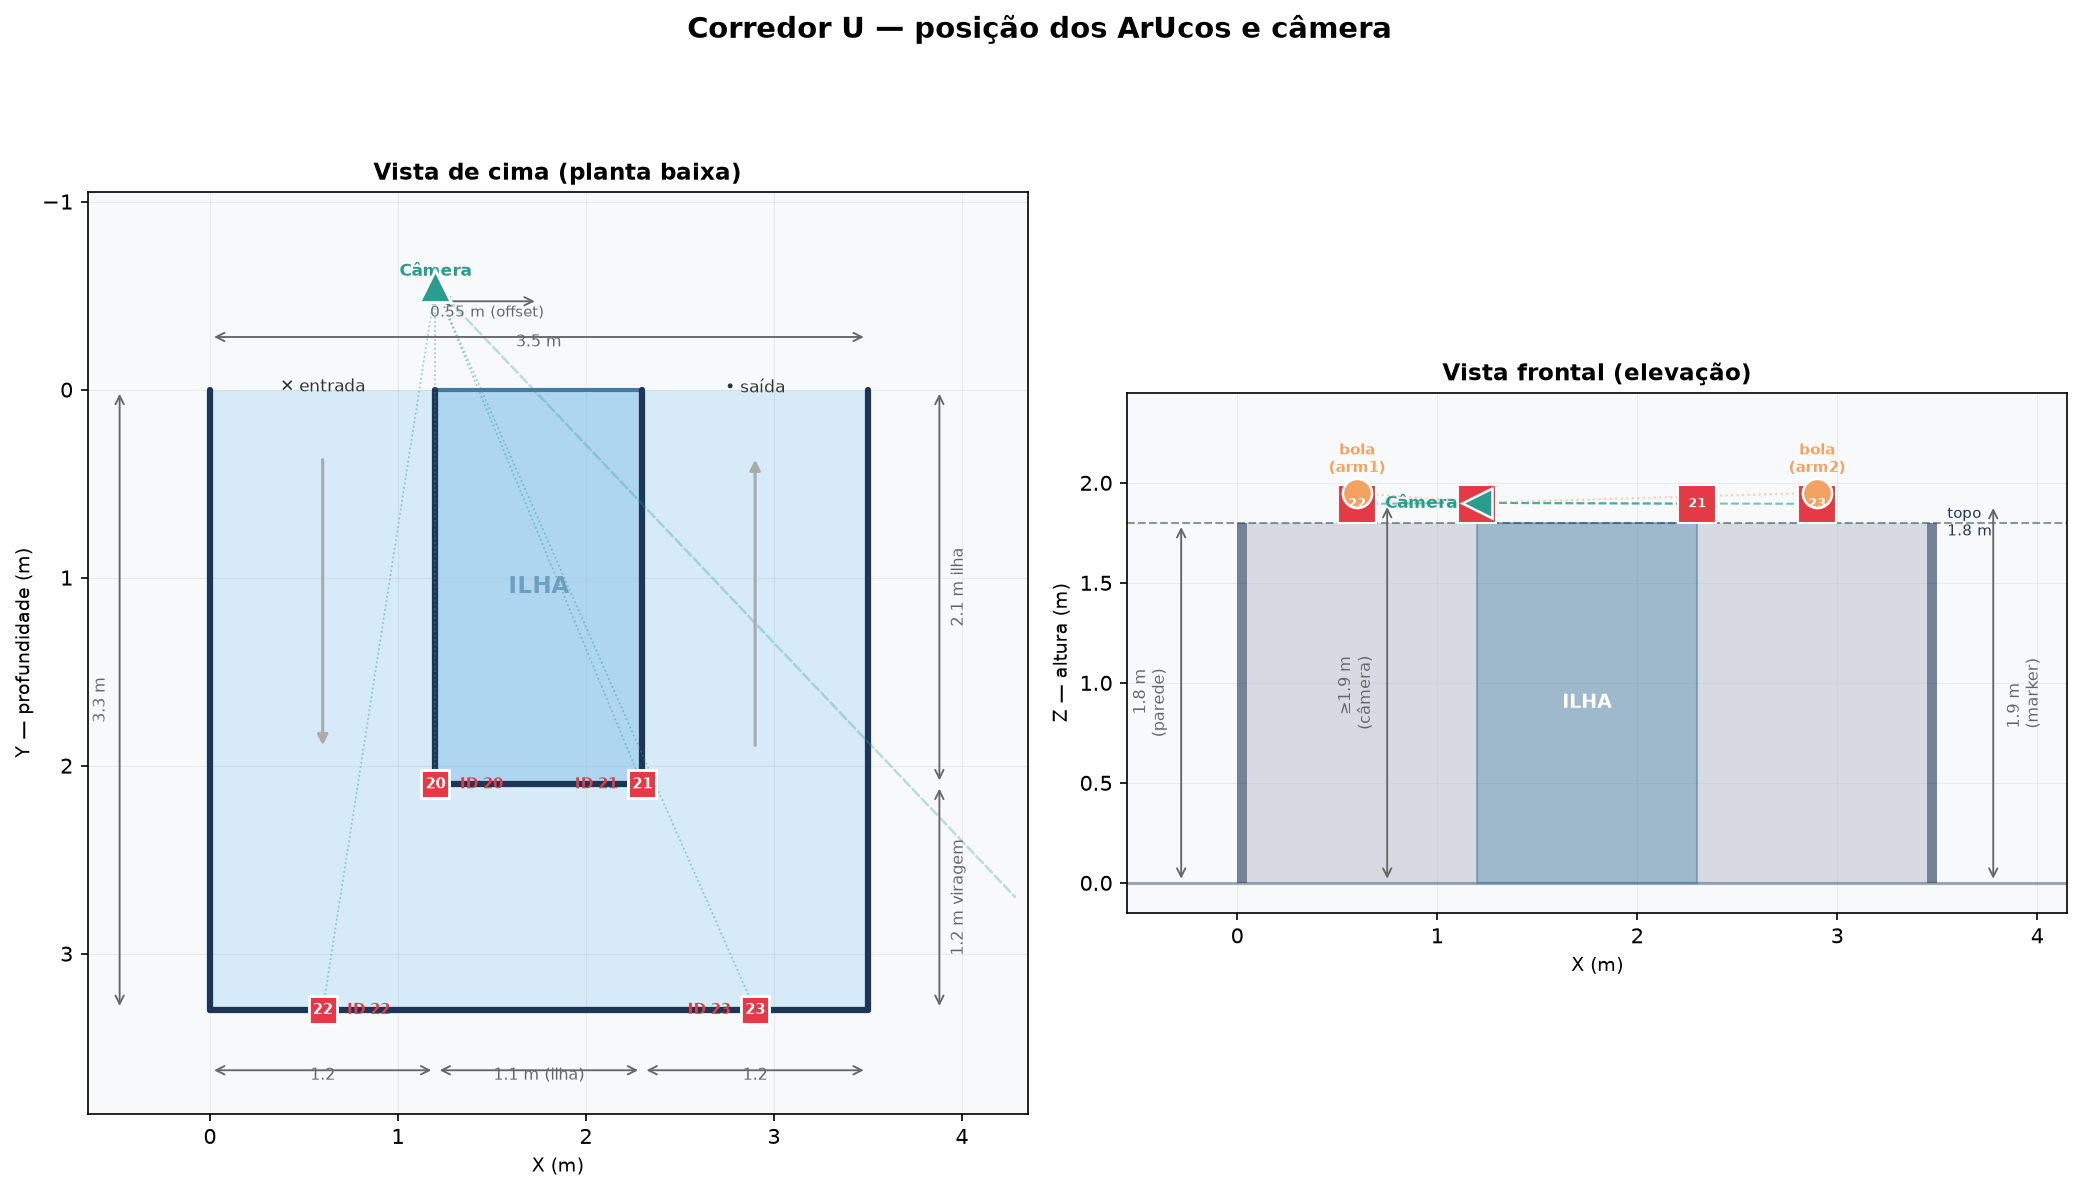
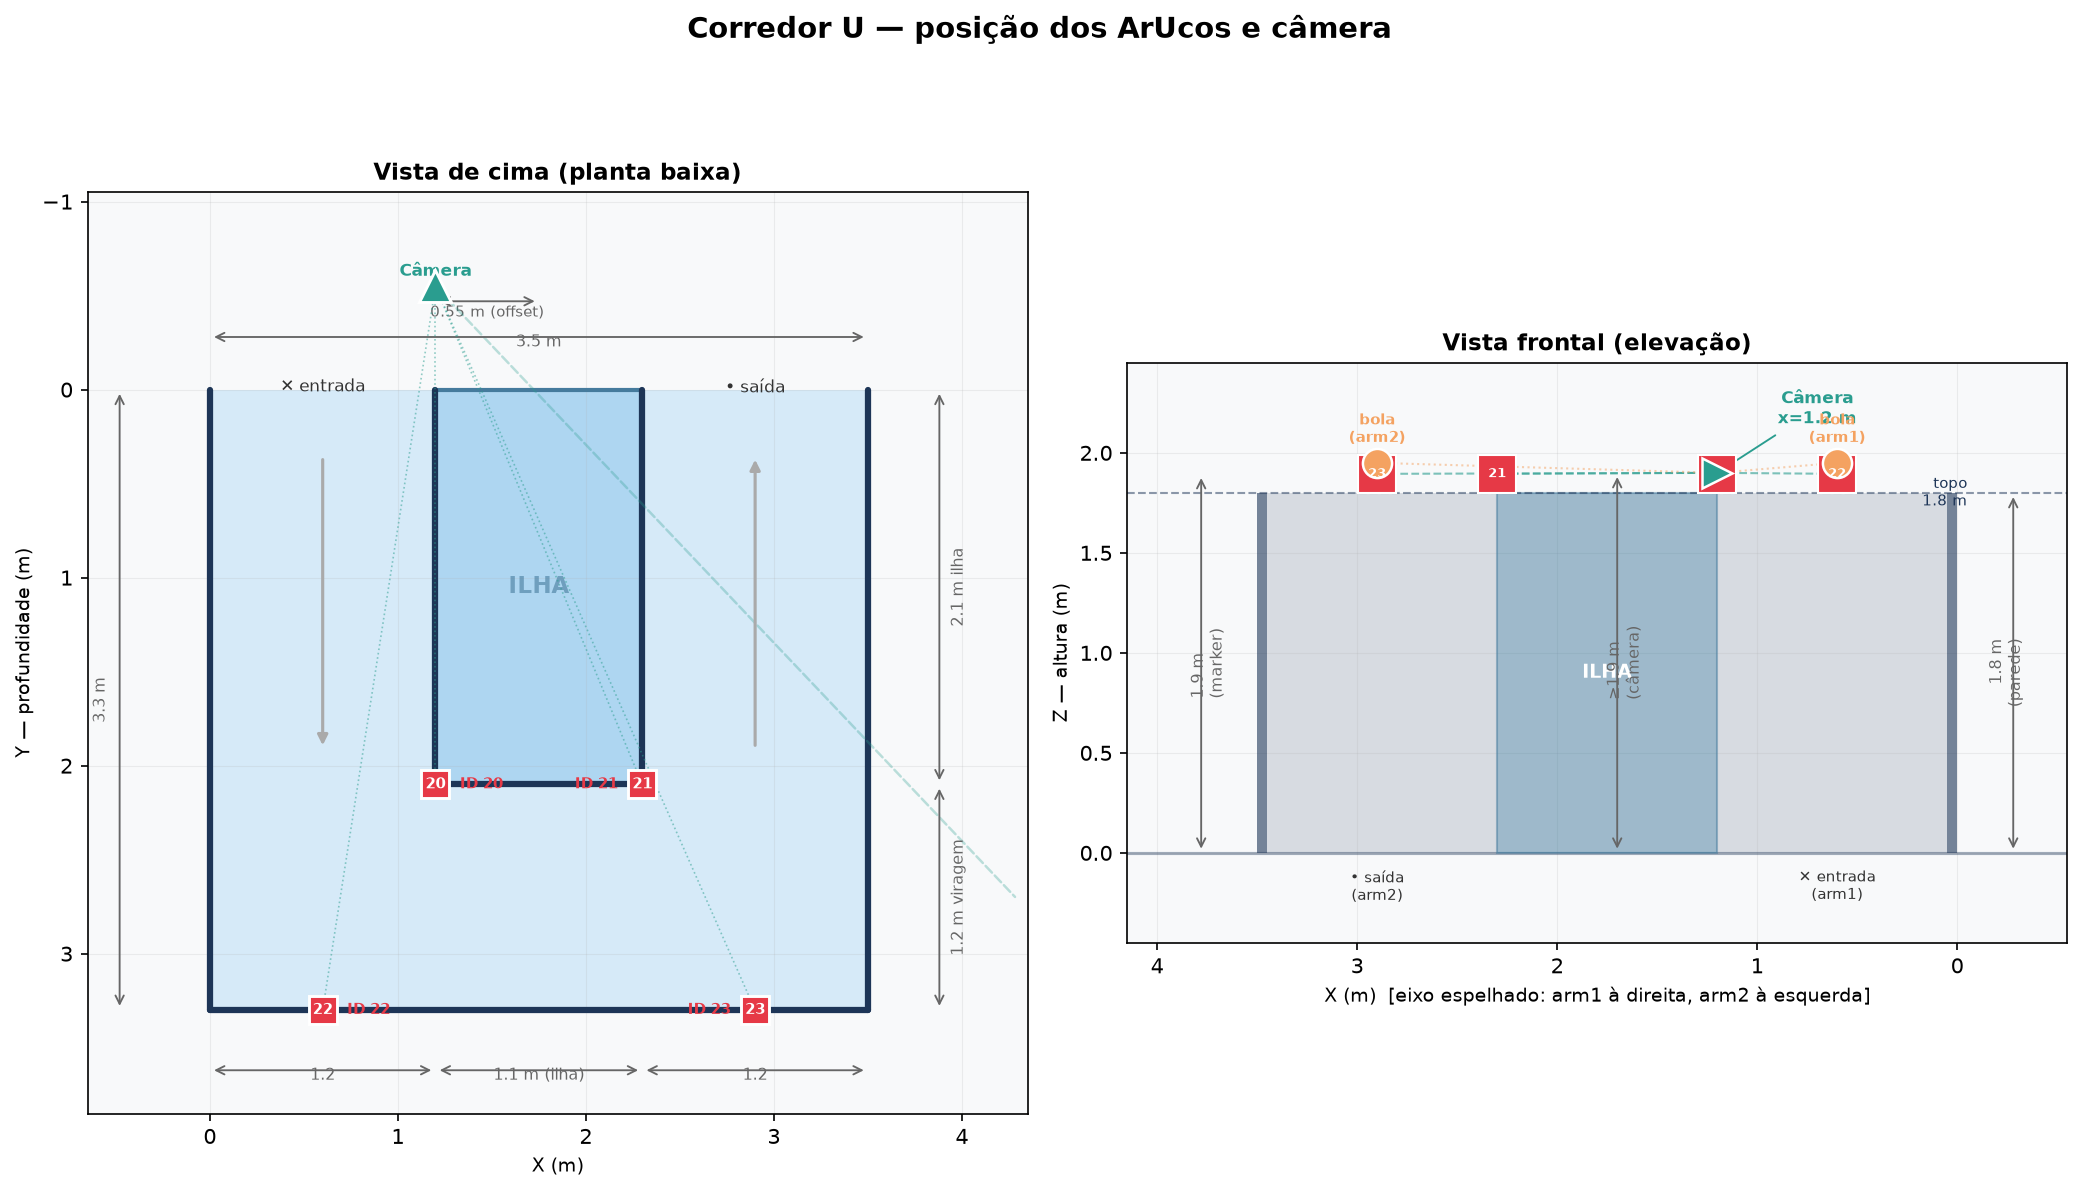
Fix elevation view: invert X axis to match physical corridor orientation
Arm1 (entry) is on camera RIGHT when looking into U, arm2 (exit) on LEFT.
Added invert_xaxis, adjusted annotations, camera label with arrow and
explicit x coordinate, entry/exit labels below elevation.

diff --git a/tools/plot_corridor_layout.py b/tools/plot_corridor_layout.py
@@ -206,11 +206,14 @@ def draw_side_view(ax, c):
         ax.text(mx, mz, str(mid), ha="center", va="center",
                 fontsize=6, fontweight="bold", color="white", zorder=6)
 
-    # câmera
-    ax.plot(cam_x, cam_z, marker="<", ms=14, color=CAMERA_COLOR,
+    # câmera — label acima para evitar sobreposição com markers
+    ax.plot(cam_x, cam_z, marker=">", ms=14, color=CAMERA_COLOR,
             markeredgecolor="white", markeredgewidth=1.2, zorder=6)
-    ax.text(cam_x - 0.1, cam_z, "Câmera", ha="right", va="center",
-            fontsize=8, color=CAMERA_COLOR, fontweight="bold")
+    ax.annotate(f"Câmera\nx={cam_x:.2g} m",
+                xy=(cam_x, cam_z), xytext=(cam_x - 0.5, cam_z + 0.22),
+                ha="center", va="bottom",
+                fontsize=8, color=CAMERA_COLOR, fontweight="bold",
+                arrowprops=dict(arrowstyle="-|>", color=CAMERA_COLOR, lw=0.9))
 
     # linhas de visão câmera → markers
     for m in c["markers"]:
@@ -219,30 +222,37 @@ def draw_side_view(ax, c):
                 lw=1, alpha=0.6, linestyle="--", zorder=4)
 
     # bola verde (pessoa na arm1 e arm2, bola acima da parede)
-    ball_z = wh + 0.15   # bola ligeiramente acima das paredes
+    ball_z = wh + 0.15
     for bx, label in [(cw/2, "bola\n(arm1)"), (W-cw/2, "bola\n(arm2)")]:
         ax.plot(bx, ball_z, "o", ms=14, color=BALL_COLOR,
                 markeredgecolor="white", markeredgewidth=1.2, zorder=5)
         ax.text(bx, ball_z + 0.08, label, ha="center", va="bottom",
                 fontsize=7, color=BALL_COLOR, fontweight="bold")
-        # linha de visão câmera → bola
         ax.plot([cam_x, bx], [cam_z, ball_z], color=BALL_COLOR,
                 lw=1, alpha=0.5, linestyle=":", zorder=4)
 
+    # labels de entrada/saída no pé da elevação
+    ax.text(cw/2,   -0.08, "✕ entrada\n(arm1)", ha="center", va="top",
+            fontsize=7, color="#333")
+    ax.text(W-cw/2, -0.08, "• saída\n(arm2)",   ha="center", va="top",
+            fontsize=7, color="#333")
+
     # cotas de altura
-    dim_v(ax, 0, wh,   -0.18, f"{wh:.1f} m\n(parede)")
-    dim_v(ax, 0, mk_z, W+0.18, f"{mk_z:.3g} m\n(marker)", left=False)
-    dim_v(ax, 0, cam_z, cam_x - 0.35, f"≥{cam_z:.2g} m\n(câmera)")
+    # após invert_xaxis: x negativo → direita, x grande → esquerda
+    dim_v(ax, 0, wh,   -0.18, f"{wh:.1f} m\n(parede)")          # direita
+    dim_v(ax, 0, mk_z, W+0.18, f"{mk_z:.3g} m\n(marker)", left=False)  # esquerda
+    dim_v(ax, 0, cam_z, cam_x + 0.4, f"≥{cam_z:.2g} m\n(câmera)", left=False)  # esquerda da câmera
 
     # linha de referência da parede (pontilhada)
     ax.axhline(wh, color=WALL_COLOR, lw=1, linestyle="--", alpha=0.5)
-    ax.text(W + 0.05, wh, f"topo\n{wh} m", va="center",
-            fontsize=7, color=WALL_COLOR)
+    ax.text(-0.05, wh, f"topo\n{wh} m", va="center",
+            fontsize=7, color=WALL_COLOR, ha="right")
 
     ax.set_xlim(-0.55, W + 0.65)
-    ax.set_ylim(-0.15, cam_z + 0.55)
+    ax.set_ylim(-0.45, cam_z + 0.55)
+    ax.invert_xaxis()   # X positivo → direita da câmera (braço de entrada arm1)
     ax.set_title("Vista frontal (elevação)", fontsize=11, fontweight="bold")
-    ax.set_xlabel("X (m)", fontsize=9)
+    ax.set_xlabel("X (m)  [eixo espelhado: arm1 à direita, arm2 à esquerda]", fontsize=9)
     ax.set_ylabel("Z — altura (m)", fontsize=9)
     ax.grid(True, alpha=0.2, lw=0.5)
 